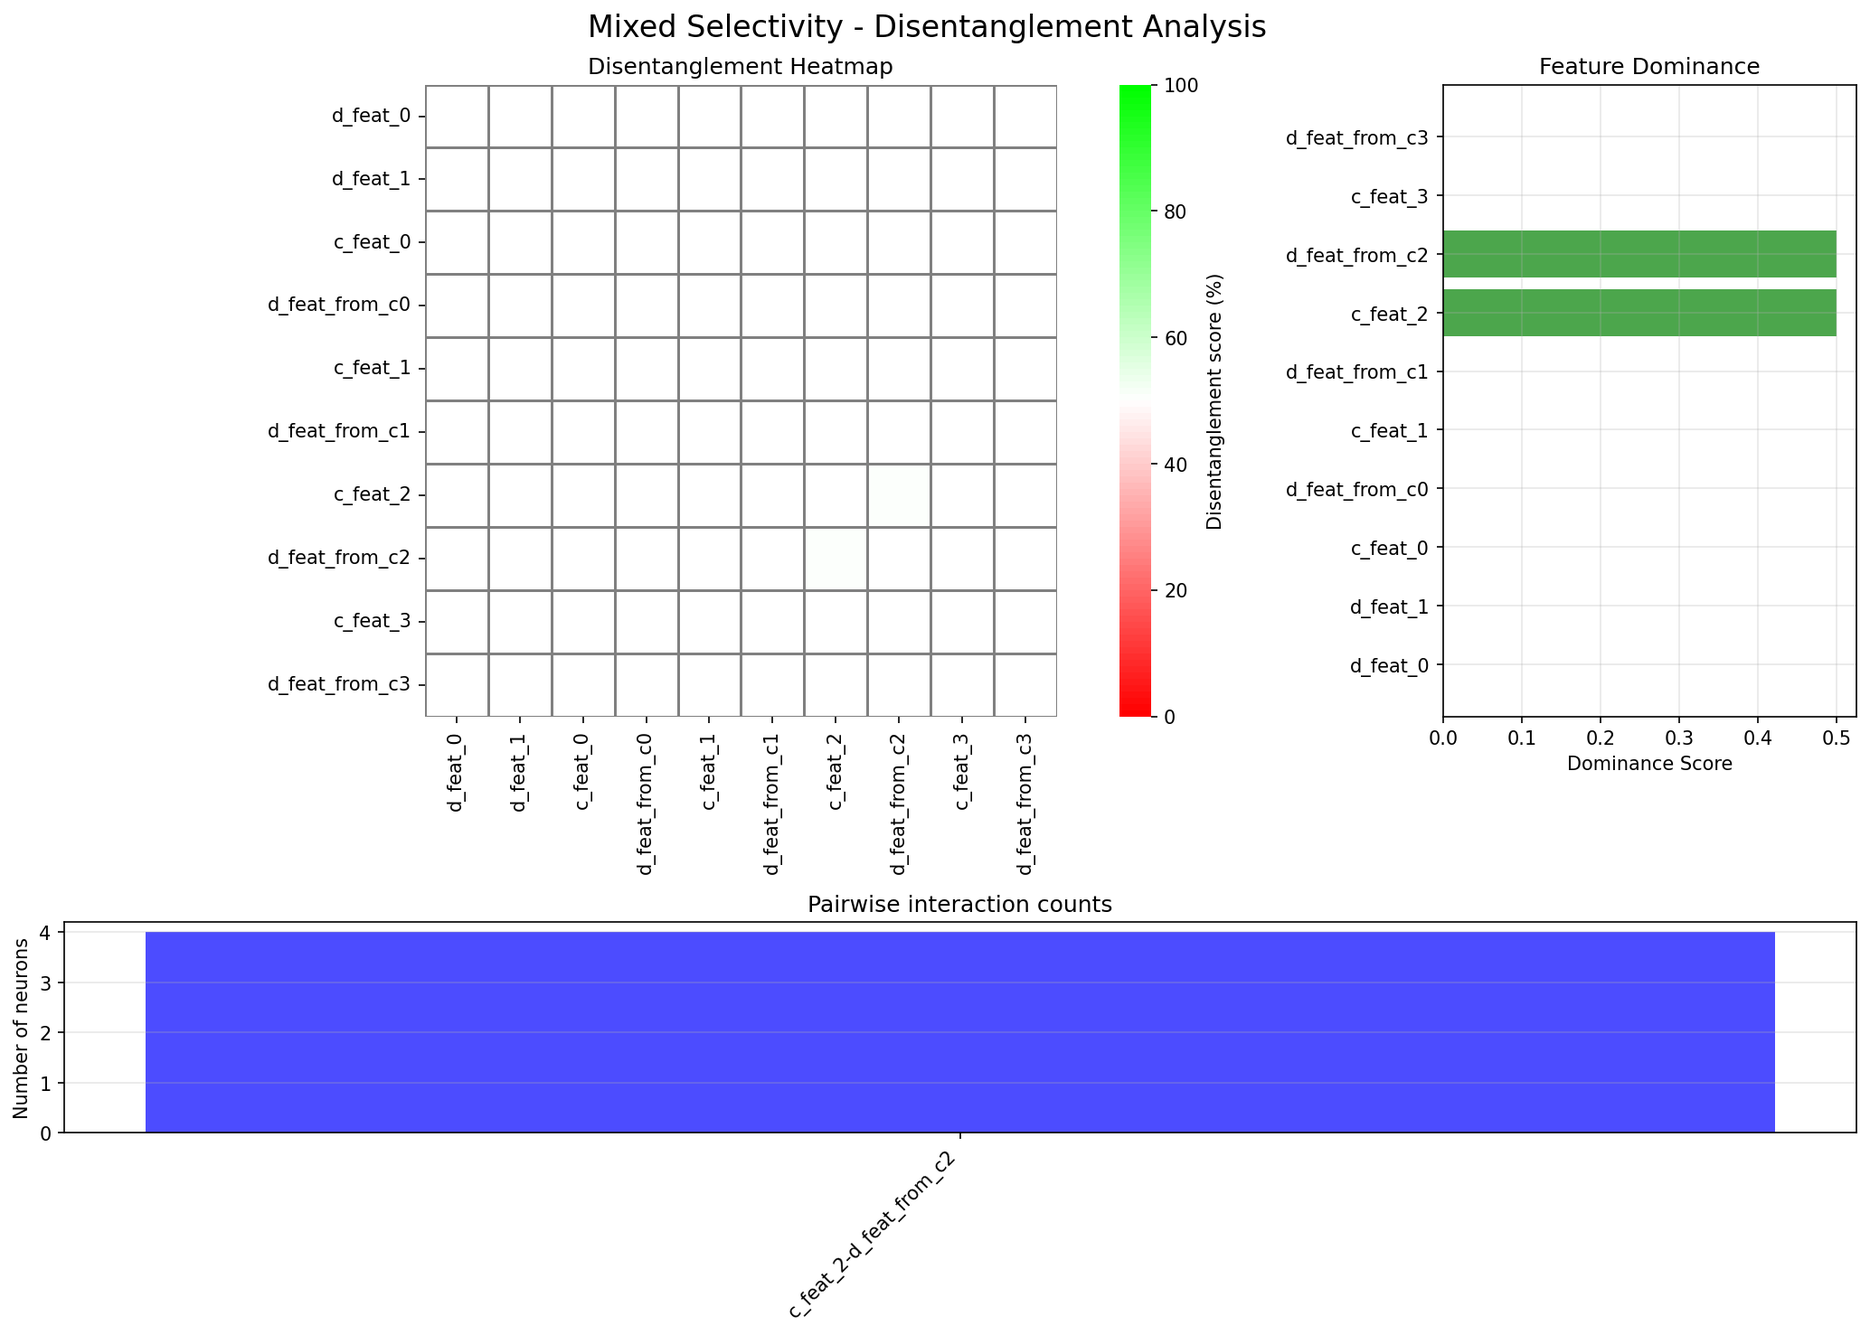
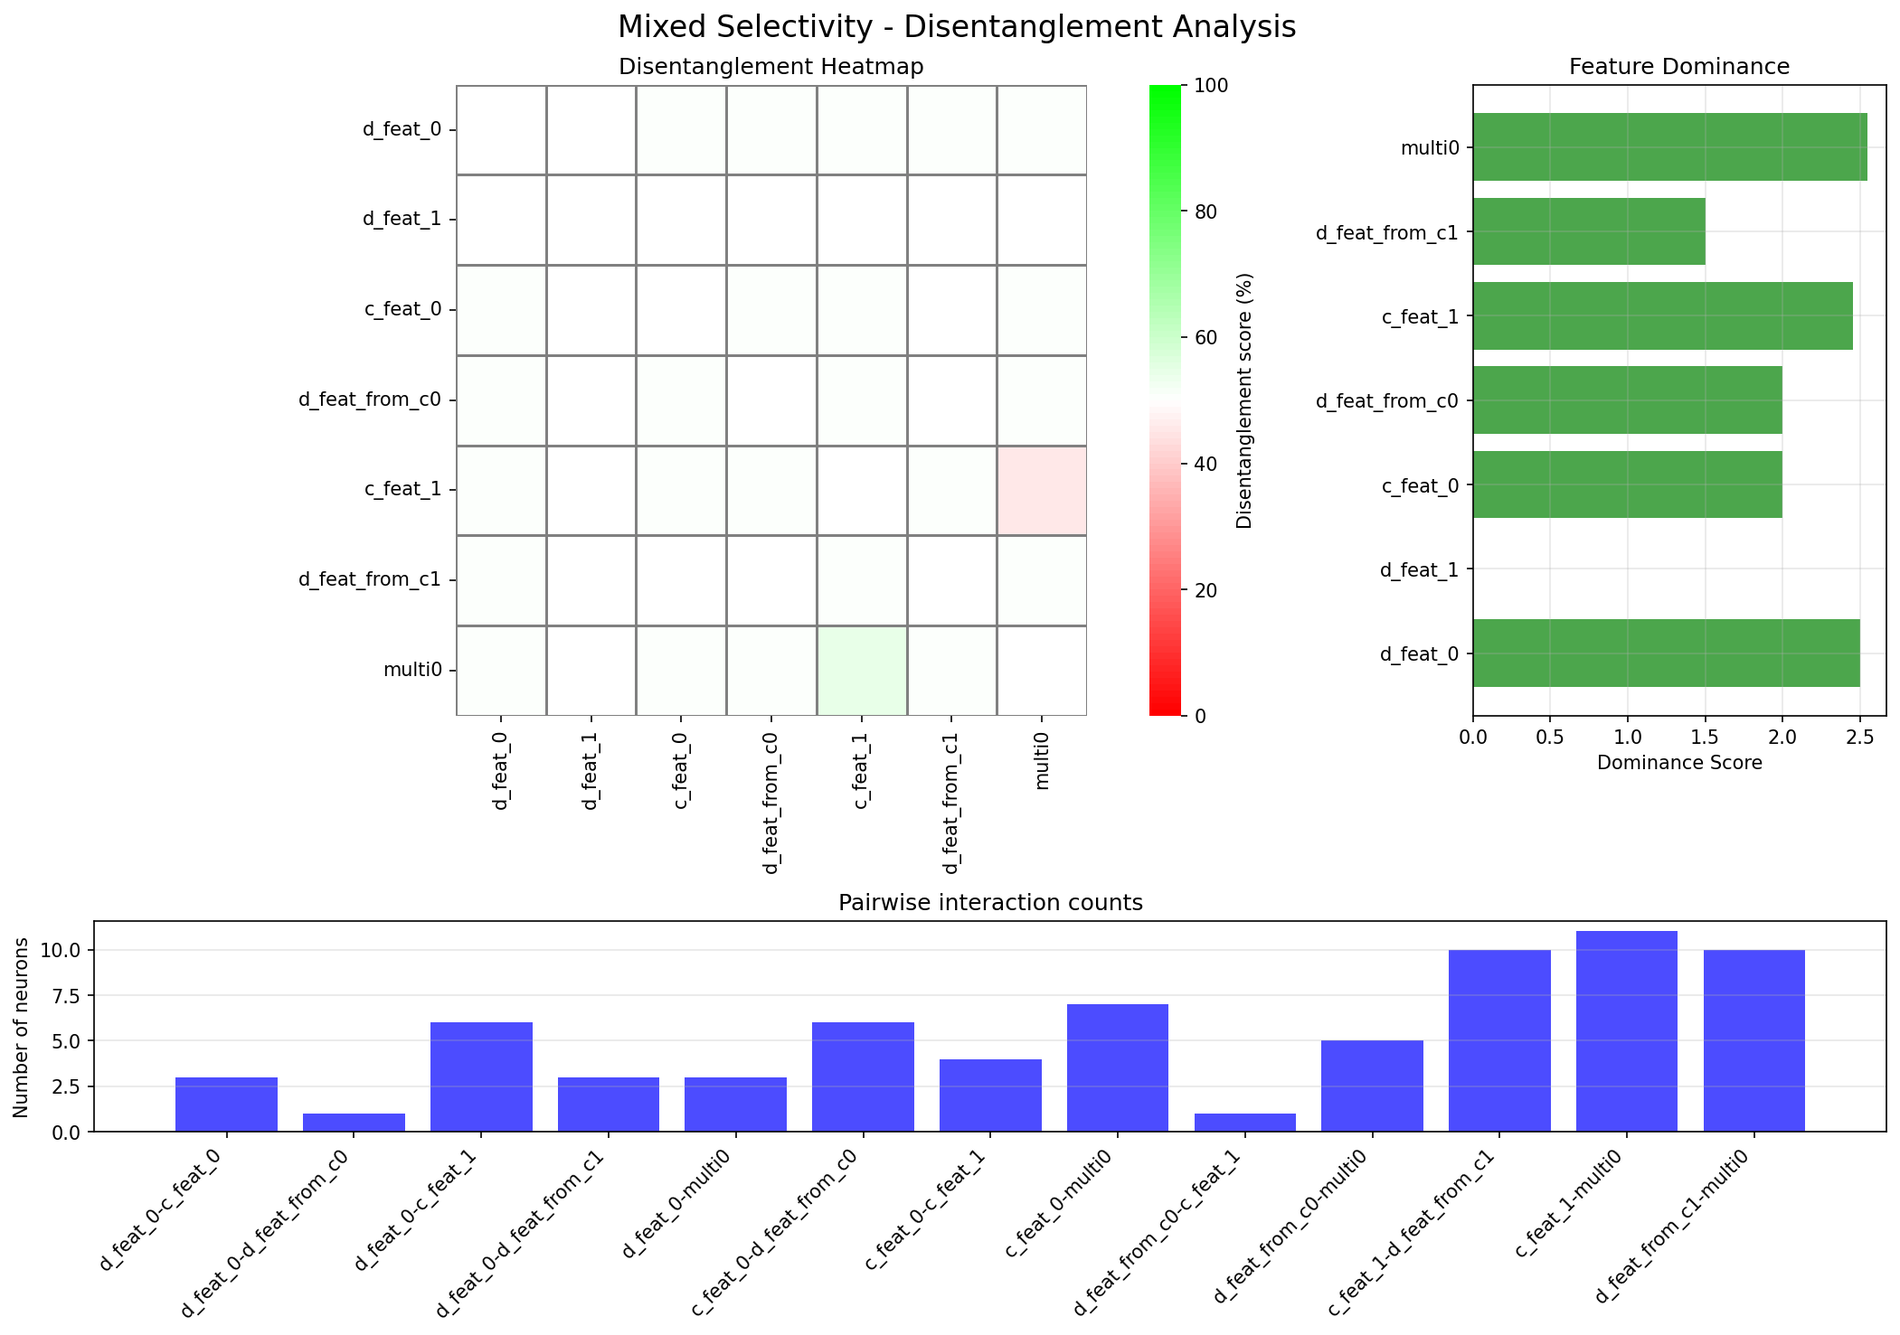
fix: resolve empty disentanglement matrix issue in mixed selectivity analysis
- Strengthen signal generation parameters for better detection:
  - Reduce baseline rate from 0.05 to 0.01 Hz
  - Increase active rate from 1.5 to 3.0 Hz
  - Reduce noise from 0.08 to 0.05
  - Increase amplitude range to (1.5, 3.5)
  - Reduce skip probability from 0.1 to 0.05
- Increase number of shuffles (50/500) for better statistics
- Use less conservative p-value threshold (0.05)
- Fix feature_names key in disentanglement results display
- Add signal generation parameters to generate_synthetic_exp_with_mixed_selectivity
- Make WSD calculation optional in plot_neuron_feature_density

These changes significantly improve mixed selectivity detection:
- 100% detection rate (30/30 neurons)
- 20 neurons with mixed selectivity detected
- 60% true mixed selectivity rate in disentanglement analysis

diff --git a/examples/mixed_selectivity.py b/examples/mixed_selectivity.py
@@ -28,22 +28,45 @@ def generate_mixed_selectivity_data():
     """Generate synthetic data with known mixed selectivity patterns and MultiTimeSeries."""
     print("\n=== GENERATING MIXED SELECTIVITY DATA ===")
     
-    # Create synthetic experiment with mixed selectivity and multifeatures
+    # For demonstration, create a smaller experiment with stronger selectivity
     exp, selectivity_info = driada.experiment.generate_synthetic_exp_with_mixed_selectivity(
-        n_discrete_feats=2,      # discrete features (e.g., task context, trial type)
-        n_continuous_feats=4,    # continuous features (e.g., x, y, speed, direction)
-        n_neurons=50,            # larger population for more mixed selectivity
-        n_multifeatures=2,       # create MultiTimeSeries features (e.g., (x,y), (speed,direction))
-        selectivity_prob=0.9,    # very high probability of selectivity
-        multi_select_prob=0.8,   # 80% chance of mixed selectivity
-        weights_mode='random',   # random selectivity weights
-        duration=600,            # 10 minutes for good statistics
-        seed=123,                # different seed for better results
-        fps=20,                  # sampling rate
-        verbose=False
+        n_discrete_feats=2,      # Fewer features for clearer demonstration
+        n_continuous_feats=2,    # Fewer continuous features
+        n_neurons=30,            # Smaller population for faster analysis
+        n_multifeatures=1,       # One multifeature
+        selectivity_prob=1.0,    # All neurons are selective
+        multi_select_prob=0.8,   # Most have mixed selectivity
+        weights_mode='dominant', # One feature dominates (clearer for disentanglement)
+        duration=600,            # 10 minutes
+        seed=123,                # Different seed
+        fps=20,
+        verbose=False,
+        create_discrete_pairs=True,  # Create discrete versions for disentanglement demo
+        # Stronger signal parameters for better detection
+        rate_0=0.01,             # Lower baseline for better dynamic range
+        rate_1=3.0,              # Higher active rate for stronger signals
+        skip_prob=0.05,          # Less skipping for more consistent signals
+        ampl_range=(1.5, 3.5),   # Stronger calcium transients
+        decay_time=2,
+        noise_std=0.05           # Lower noise for better SNR
     )
     
     print(f"Generated experiment: {exp.n_cells} neurons, {len(exp.dynamic_features)} features, {exp.n_frames/exp.fps:.1f}s recording")
+    
+    # Debug: Show selectivity matrix info
+    if 'matrix' in selectivity_info:
+        matrix = selectivity_info['matrix']
+        n_selective = np.sum(np.any(matrix > 0, axis=0))
+        n_mixed = np.sum(np.sum(matrix > 0, axis=0) > 1)
+        print(f"Selectivity matrix: {n_selective} selective neurons, {n_mixed} with mixed selectivity (ground truth)")
+        
+        # Show which features each neuron is selective to (first 10 neurons)
+        print("\nGround truth selectivity (first 10 neurons):")
+        for j in range(min(10, matrix.shape[1])):
+            selective_features = np.where(matrix[:, j] > 0)[0]
+            if len(selective_features) > 0:
+                feat_names = [selectivity_info['feature_names'][i] for i in selective_features]
+                print(f"  Neuron {j}: {feat_names}")
     
     return exp, selectivity_info
 
@@ -62,18 +85,60 @@ def run_intense_analysis(exp):
         elif hasattr(feat_data, '__class__') and feat_data.__class__.__name__ == 'MultiTimeSeries':
             skip_delays.append(feat_name)
     
-    stats, significance, info, results = driada.compute_cell_feat_significance(
+    # Run comprehensive analysis with disentanglement
+    results = driada.compute_cell_feat_significance(
         exp,
         mode='two_stage',
-        n_shuffles_stage1=50,
-        n_shuffles_stage2=1500,  # Higher precision for mixed selectivity
+        n_shuffles_stage1=50,    # Increased for better statistics
+        n_shuffles_stage2=500,   # Increased for more reliable p-values
         allow_mixed_dimensions=True,  # Enable MultiTimeSeries analysis
         skip_delays=skip_delays if skip_delays else None,  # Skip delay optimization for MultiTimeSeries
-        verbose=False
+        verbose=False,
+        with_disentanglement=True,  # Enable disentanglement analysis
+        multifeature_map=driada.intense.DEFAULT_MULTIFEATURE_MAP,
+        metric_distr_type='norm',  # Use normal (Gaussian) distribution for shuffled MI
+        pval_thr=0.05  # Slightly less conservative threshold
     )
+    
+    # Unpack results based on whether disentanglement was included
+    if len(results) == 5:
+        stats, significance, info, intense_results, disentanglement_results = results
+    else:
+        stats, significance, info, intense_results = results
+        disentanglement_results = None
     
     # Extract significant relationships
     significant_neurons = exp.get_significant_neurons()
+    
+    # Debug: Check if we're getting any significant relationships at all
+    if 'calcium' in significance:
+        sig_cal = significance['calcium']
+        stage1_passed = np.sum([v.get('stage1', 0) == 1 for v in sig_cal.values() if isinstance(v, dict)])
+        stage2_passed = np.sum([v.get('stage2', 0) == 1 for v in sig_cal.values() if isinstance(v, dict)])
+        total_pairs = len([v for v in sig_cal.values() if isinstance(v, dict)])
+        print(f"\nDEBUG: Stage 1 passed pairs: {stage1_passed} out of {total_pairs}")
+        print(f"DEBUG: Stage 2 passed pairs: {stage2_passed} out of {total_pairs}")
+        
+        # Check p-values for some pairs
+        pvals = []
+        for k, v in sig_cal.items():
+            if isinstance(v, dict) and 'pval' in v and v['pval'] is not None:
+                pvals.append(v['pval'])
+        if pvals:
+            print(f"DEBUG: P-value distribution: min={min(pvals):.4f}, median={np.median(pvals):.4f}, max={max(pvals):.4f}")
+            print(f"DEBUG: P-values < 0.05: {np.sum(np.array(pvals) < 0.05)} out of {len(pvals)}")
+    
+    # Check some MI values
+    if hasattr(exp, 'stats_tables') and 'calcium' in exp.stats_tables:
+        mi_values = []
+        for cell_id in range(min(10, exp.n_cells)):  # Check first 10 neurons
+            for feat in list(exp.dynamic_features.keys())[:3]:  # Check first 3 features
+                if isinstance(feat, str):
+                    pair_stats = exp.get_neuron_feature_pair_stats(cell_id, feat, mode='calcium')
+                    if pair_stats and 'me' in pair_stats and pair_stats['me'] is not None:
+                        mi_values.append(pair_stats['me'])
+        if mi_values:
+            print(f"DEBUG: Sample MI values: min={min(mi_values):.4f}, max={max(mi_values):.4f}, mean={np.mean(mi_values):.4f}")
     
     # Count multifeature relationships
     from driada.information.info_base import MultiTimeSeries
@@ -89,58 +154,57 @@ def run_intense_analysis(exp):
     
     print(f"INTENSE found {len(significant_neurons)} significant neurons, {len(mixed_candidates)} with mixed selectivity")
     
-    return stats, significance, info, results, significant_neurons, mixed_candidates
+    # Debug: Show what features neurons are selective to
+    if mixed_candidates:
+        print("\nMixed selectivity details:")
+        for cell_id, features in list(mixed_candidates.items())[:5]:  # Show first 5
+            print(f"  Neuron {cell_id}: selective to {features}")
+    else:
+        # Show single selectivity neurons to debug
+        print("\nSingle selectivity neurons found:")
+        for i, (cell_id, features) in enumerate(significant_neurons.items()):
+            if i < 5:  # Show first 5
+                print(f"  Neuron {cell_id}: selective to {features}")
+    
+    return stats, significance, info, intense_results, significant_neurons, mixed_candidates, disentanglement_results
 
 
-def analyze_disentanglement(exp, mixed_candidates):
-    """Apply disentanglement analysis to mixed selectivity neurons."""
+def analyze_disentanglement(disentanglement_results, mixed_candidates):
+    """Process disentanglement results from the pipeline."""
     print("\n=== DISENTANGLEMENT ANALYSIS ===")
     
     if not mixed_candidates:
         print("No mixed selectivity candidates found for disentanglement.")
         return None, None, None
     
-    # Get all feature names from the experiment (string features only, excluding MultiTimeSeries)
-    from driada.information.info_base import MultiTimeSeries
-    feat_names = [f for f in exp.dynamic_features.keys() 
-                  if isinstance(f, str) and not isinstance(exp.dynamic_features[f], MultiTimeSeries)]
-    
-    if len(feat_names) < 2:
-        print("Not enough features for disentanglement analysis.")
+    if disentanglement_results is None:
+        print("No disentanglement results available.")
         return None, None, None
     
-    # Use the built-in multifeature map
-    multifeature_map = driada.intense.DEFAULT_MULTIFEATURE_MAP.copy()
+    # Extract results from the pipeline
+    disent_matrix = disentanglement_results.get('disent_matrix')
+    count_matrix = disentanglement_results.get('count_matrix')
+    feat_names = disentanglement_results.get('feature_names', [])
     
-    # Add any additional multifeatures from the experiment
-    for feat in exp.dynamic_features.keys():
-        if isinstance(feat, tuple) and len(feat) == 2:
-            # Create a descriptive name for the multifeature
-            if feat not in multifeature_map:
-                if 'x' in feat[0].lower() and 'y' in feat[1].lower():
-                    multifeature_map[feat] = 'spatial_location'
-                elif 'speed' in feat[0].lower() or 'speed' in feat[1].lower():
-                    multifeature_map[feat] = 'movement'
-                else:
-                    multifeature_map[feat] = f'{feat[0]}_{feat[1]}_combined'
-    
-    # Run disentanglement analysis with correct parameters
-    
-    try:
-        disent_matrix, count_matrix = driada.intense.disentangle_all_selectivities(
-            exp,
-            feat_names,
-            multifeature_map=multifeature_map,
-            cell_bunch=list(mixed_candidates.keys())  # Focus on mixed selectivity neurons
-        )
-        
-        print(f"Disentanglement analysis completed")
-        
-        return disent_matrix, count_matrix, feat_names
-        
-    except Exception as e:
-        print(f"Error in disentanglement analysis: {str(e)}")
+    if disent_matrix is None or count_matrix is None:
+        print("Disentanglement matrices not found in results.")
         return None, None, None
+    
+    print(f"Disentanglement analysis completed by pipeline")
+    print(f"Matrix shape: {disent_matrix.shape}, Non-zero entries: {np.count_nonzero(count_matrix)}")
+    print(f"Feature names analyzed: {feat_names}")
+    
+    # Show summary if available
+    if 'summary' in disentanglement_results:
+        summary = disentanglement_results['summary']
+        if 'overall_stats' in summary:
+            stats = summary['overall_stats']
+            print(f"\nOverall statistics:")
+            print(f"  Total neuron pairs: {stats.get('total_neuron_pairs', 0)}")
+            print(f"  Redundancy rate: {stats.get('redundancy_rate', 0):.1f}%")
+            print(f"  True mixed selectivity rate: {stats.get('true_mixed_selectivity_rate', 0):.1f}%")
+    
+    return disent_matrix, count_matrix, feat_names
 
 
 def interpret_disentanglement_results(exp, disent_matrix, count_matrix, feat_names, mixed_candidates):
@@ -290,21 +354,21 @@ def main():
     # Step 1: Generate mixed selectivity data with MultiTimeSeries
     exp, selectivity_info = generate_mixed_selectivity_data()
     
-    # Step 2: Run INTENSE analysis
-    stats, significance, info, results, significant_neurons, mixed_candidates = run_intense_analysis(exp)
+    # Step 2: Run INTENSE analysis with disentanglement
+    stats, significance, info, intense_results, significant_neurons, mixed_candidates, disentanglement_results = run_intense_analysis(exp)
     
-    # Step 3: Apply disentanglement analysis
-    disentanglement_results = analyze_disentanglement(exp, mixed_candidates)
+    # Step 3: Process disentanglement results
+    disent_matrix, count_matrix, feat_names = analyze_disentanglement(disentanglement_results, mixed_candidates)
     
     # Step 4: Interpret results
     redundancy_cases, synergy_cases, independence_cases = interpret_disentanglement_results(
-        exp, disentanglement_results[0], disentanglement_results[1], disentanglement_results[2], mixed_candidates
+        exp, disent_matrix, count_matrix, feat_names, mixed_candidates
     )
     
     # Step 5: Create visualizations
-    if disentanglement_results[0] is not None:
+    if disent_matrix is not None:
         create_disentanglement_visualization(
-            exp, disentanglement_results[0], disentanglement_results[1], disentanglement_results[2], 
+            exp, disent_matrix, count_matrix, feat_names, 
             mixed_candidates, output_dir
         )
     

diff --git a/src/driada/intense/visual.py b/src/driada/intense/visual.py
@@ -54,7 +54,7 @@ def plot_pc_activity(exp, cell_ind, ds=None, ax=None):
     return ax
 
 
-def plot_neuron_feature_density(exp, data_type, cell_id, featname, ind1=0, ind2=100000, ds=1, shift=None, ax=None):
+def plot_neuron_feature_density(exp, data_type, cell_id, featname, ind1=0, ind2=100000, ds=1, shift=None, ax=None, compute_wsd=False):
     """
     Plot density distribution of neural activity conditioned on feature values.
     
@@ -78,6 +78,8 @@ def plot_neuron_feature_density(exp, data_type, cell_id, featname, ind1=0, ind2=
         Temporal shift (not implemented). Default: None.
     ax : matplotlib.axes.Axes, optional
         Axes to plot on. If None, creates new figure.
+    compute_wsd : bool, optional
+        Whether to compute Wasserstein distance for binary features. Default: False.
         
     Returns
     -------
@@ -103,15 +105,19 @@ def plot_neuron_feature_density(exp, data_type, cell_id, featname, ind1=0, ind2=
             vals0 = np.log10(sig[np.where((rbdata == min(rbdata)) & (sig > 0))])
             vals1 = np.log10(sig[np.where((rbdata == max(rbdata)) & (sig > 0))])
 
-            wsd = wasserstein_distance(vals0, vals1)
-            # _ = ax.hist(vals0, bins = 25, color = 'b', log = True, density = True, alpha = 0.7, label=f'{featname}=1')
+            if compute_wsd and len(vals0) > 0 and len(vals1) > 0:
+                wsd = wasserstein_distance(vals0, vals1)
+                title_text = f'wsd={wsd:.3f}'
+            else:
+                title_text = ''
+                
             _ = sns.kdeplot(vals0, ax=ax, c='b', label=f'{featname}=0', linewidth=3, bw_adjust=0.5)
             _ = sns.kdeplot(vals1, ax=ax, c='r', label=f'{featname}=1', linewidth=3, bw_adjust=0.5)
-            # _ = ax.hist(vals1, bins = 25, color = 'r', log = True, density = True, alpha = 0.7, label=f'{featname}=0')
             ax.legend(loc='upper right')
             ax.set_xlabel('log(dF/F)', fontsize=20)
             ax.set_ylabel('density', fontsize=20)
-            ax.set_title(f'wsd={wsd}')
+            if title_text:
+                ax.set_title(title_text)
 
         if data_type == 'spikes':
             raise NotImplementedError('Binary feature density plot for spike data not yet implemented')
@@ -203,7 +209,7 @@ def plot_neuron_feature_pair(exp, cell_id, featname, ind1=0, ind2=100000, ds=1,
         ax0.plot(np.arange(ind1, ind2)[::ds], rbdata, c='r', linewidth=2, alpha=0.5)
 
     if add_density_plot:
-        plot_neuron_feature_density(exp, 'calcium', cell_id, featname, ind1=ind1, ind2=ind2, ds=ds, ax=ax1)
+        plot_neuron_feature_density(exp, 'calcium', cell_id, featname, ind1=ind1, ind2=ind2, ds=ds, ax=ax1, compute_wsd=False)
 
     ax0.set_xlabel('timeframes', fontsize=20)
     ax0.set_ylabel('Signal/behavior', fontsize=20)

diff --git a/src/driada/experiment/synthetic.py b/src/driada/experiment/synthetic.py
@@ -532,7 +532,9 @@ def generate_synthetic_exp_with_mixed_selectivity(n_discrete_feats=4, n_continuo
                                                   selectivity_prob=0.8, multi_select_prob=0.5,
                                                   weights_mode='random', duration=1200,
                                                   seed=42, fps=20, verbose=True,
-                                                  name_convention='str'):
+                                                  name_convention='str',
+                                                  rate_0=0.1, rate_1=1.0, skip_prob=0.1,
+                                                  ampl_range=(0.5, 2), decay_time=2, noise_std=0.1):
     """
     Generate synthetic experiment with mixed selectivity and multifeatures.
     
@@ -566,6 +568,18 @@ def generate_synthetic_exp_with_mixed_selectivity(n_discrete_feats=4, n_continuo
         Naming convention for multifeatures. Options:
         - 'str' (default): Use string keys like 'xy', 'speed_direction'
         - 'tuple': Use tuple keys like ('x', 'y'), ('speed', 'head_direction') [DEPRECATED]
+    rate_0 : float, optional
+        Baseline spike rate in Hz. Default: 0.1.
+    rate_1 : float, optional
+        Active spike rate in Hz. Default: 1.0.
+    skip_prob : float, optional
+        Probability of skipping spikes. Default: 0.1.
+    ampl_range : tuple, optional
+        Range of spike amplitudes. Default: (0.5, 2).
+    decay_time : float, optional
+        Calcium decay time constant in seconds. Default: 2.
+    noise_std : float, optional
+        Standard deviation of additive noise. Default: 0.1.
         
     Returns
     -------
@@ -649,8 +663,8 @@ def generate_synthetic_exp_with_mixed_selectivity(n_discrete_feats=4, n_continuo
     calcium_signals, _ = generate_synthetic_data_mixed_selectivity(
         features_dict, n_neurons, selectivity_matrix,
         duration=duration, seed=seed + 400, sampling_rate=fps,
-        rate_0=0.1, rate_1=1.0, skip_prob=0.1,
-        ampl_range=(0.5, 2), decay_time=2, noise_std=0.1,
+        rate_0=rate_0, rate_1=rate_1, skip_prob=skip_prob,
+        ampl_range=ampl_range, decay_time=decay_time, noise_std=noise_std,
         verbose=verbose
     )
     
